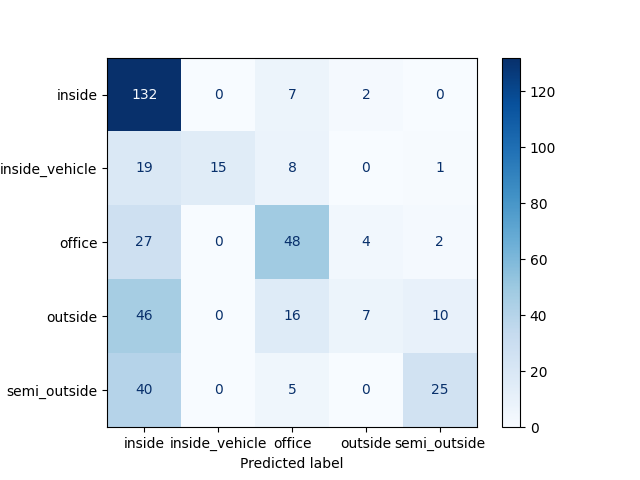
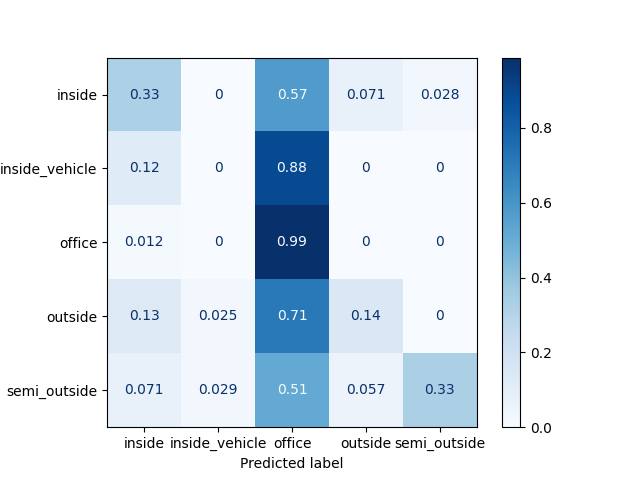
changes

diff --git a/cnn.py b/cnn.py
@@ -111,7 +111,7 @@ class CNN:
         ])
         model.summary()
         model.compile(optimizer=Adam(learning_rate=0.0001), loss='categorical_crossentropy', metrics=['accuracy'])
-        model.fit(x=self._train_batches, validation_data=self._valid_batches, epochs=epochs, verbose=2)
+        model.fit(x=self._train_batches, validation_data=self._valid_batches, epochs=epochs, verbose=1)
         model_path = os.path.join(self._dirname, "models", f"{model_name}_{epochs}_epochs")
         model.save(model_path)
         return model
@@ -121,7 +121,7 @@ class CNN:
         model = load_model(model_path)
         predictions = model.predict(x=self._test_batches, verbose=0)
         np.round(predictions)
-        cm = confusion_matrix(y_true=self._test_batches.classes, y_pred=np.argmax(predictions, axis=-1))
+        cm = confusion_matrix(y_true=self._test_batches.classes, y_pred=np.argmax(predictions, axis=-1), normalize='true')
         accu = accuracy_score(self._test_batches.classes, np.argmax(predictions, axis=-1))
         print(cm)
         _LOG.info(f"Model accuracy on test data {accu}")

diff --git a/preprocessing.py b/preprocessing.py
@@ -132,7 +132,7 @@ class preprocess():
             self.prepare_speech_data()
         if add_wind:
             _LOG.info("Adding wind noise to data")
-        
+
         for d in self.test_data:
             y = d
             if add_awgn:
@@ -457,7 +457,8 @@ class preprocess():
         Returns:
             The signal with awgn
         """
-        wgn = np.square(np.mean(x)) *  np.random.normal(loc=0.0, scale=1.0, size=x.shape[0])
+
+        wgn =  np.square(np.mean(x)) *  np.random.normal(loc=0.0, scale=1.0, size=x.shape[0])
         return np.add(x, wgn)
 
     def prepare_speech_data(self):
@@ -503,7 +504,7 @@ class preprocess():
             Input signal merged with wind noise
         """
         # Set path for wind audio
-        wind_path = os.path.join(self._dirname, "noise/wind_audio")
+        wind_path = os.path.join(self._dirname, "noise/wind_noise")
         # Load wind audio file (Only one right now)
         wind_normal, sr = sf.read(os.path.join(wind_path, "wind_normal.wav"))
         # Make sure that the samplerates match
